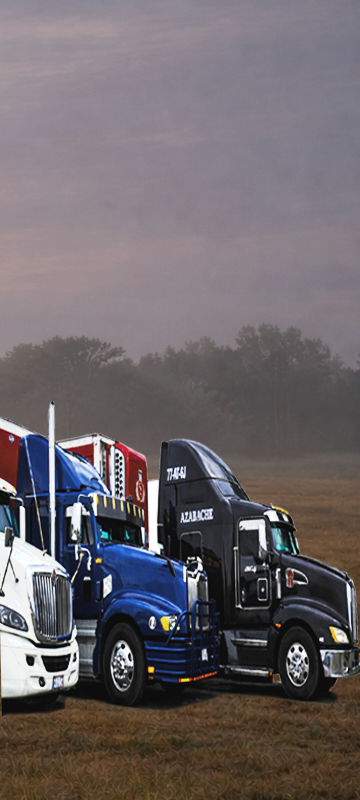
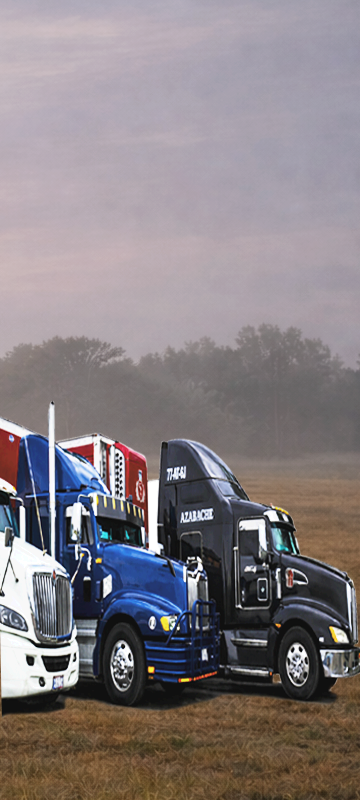
ImageHeroMobile

diff --git a/css/styless.css b/css/styless.css
@@ -459,7 +459,10 @@ border-radius: 2rem 0 0 2rem;
         padding-left: 0.8rem;
     }
  .hero-image::before{
-    background: linear-gradient(20deg,rgba(1, 0, 3, 1) 0%, rgba(25, 25, 97, 0.59) 55%, rgba(144, 216, 232, 0.31) 100%);
+    /* background: none; */
+    background: linear-gradient(180deg,rgba(6, 0, 16, 0.629) 0%, rgba(25, 25, 97, 0.434) 100%);
+    /* background: linear-gradient(90deg,rgba(1, 0, 3, 1) 0%, rgba(25, 25, 97, 0.59) 55%, rgba(144, 216, 232, 0.31) 100%); */
+   
     opacity: 0.4;
 }
 

diff --git a/index.html b/index.html
@@ -43,7 +43,7 @@
       
     </section>
 
-    <div id="inicio" class="hero-content">
+    <div id="inicio" class="hero- content">
       <h1 class="hero-title">Operamos con seguridad,</h1>
       <h1 class="hero-title2">Entregamos con confianza.</h1>
       <p class="hero-text">
